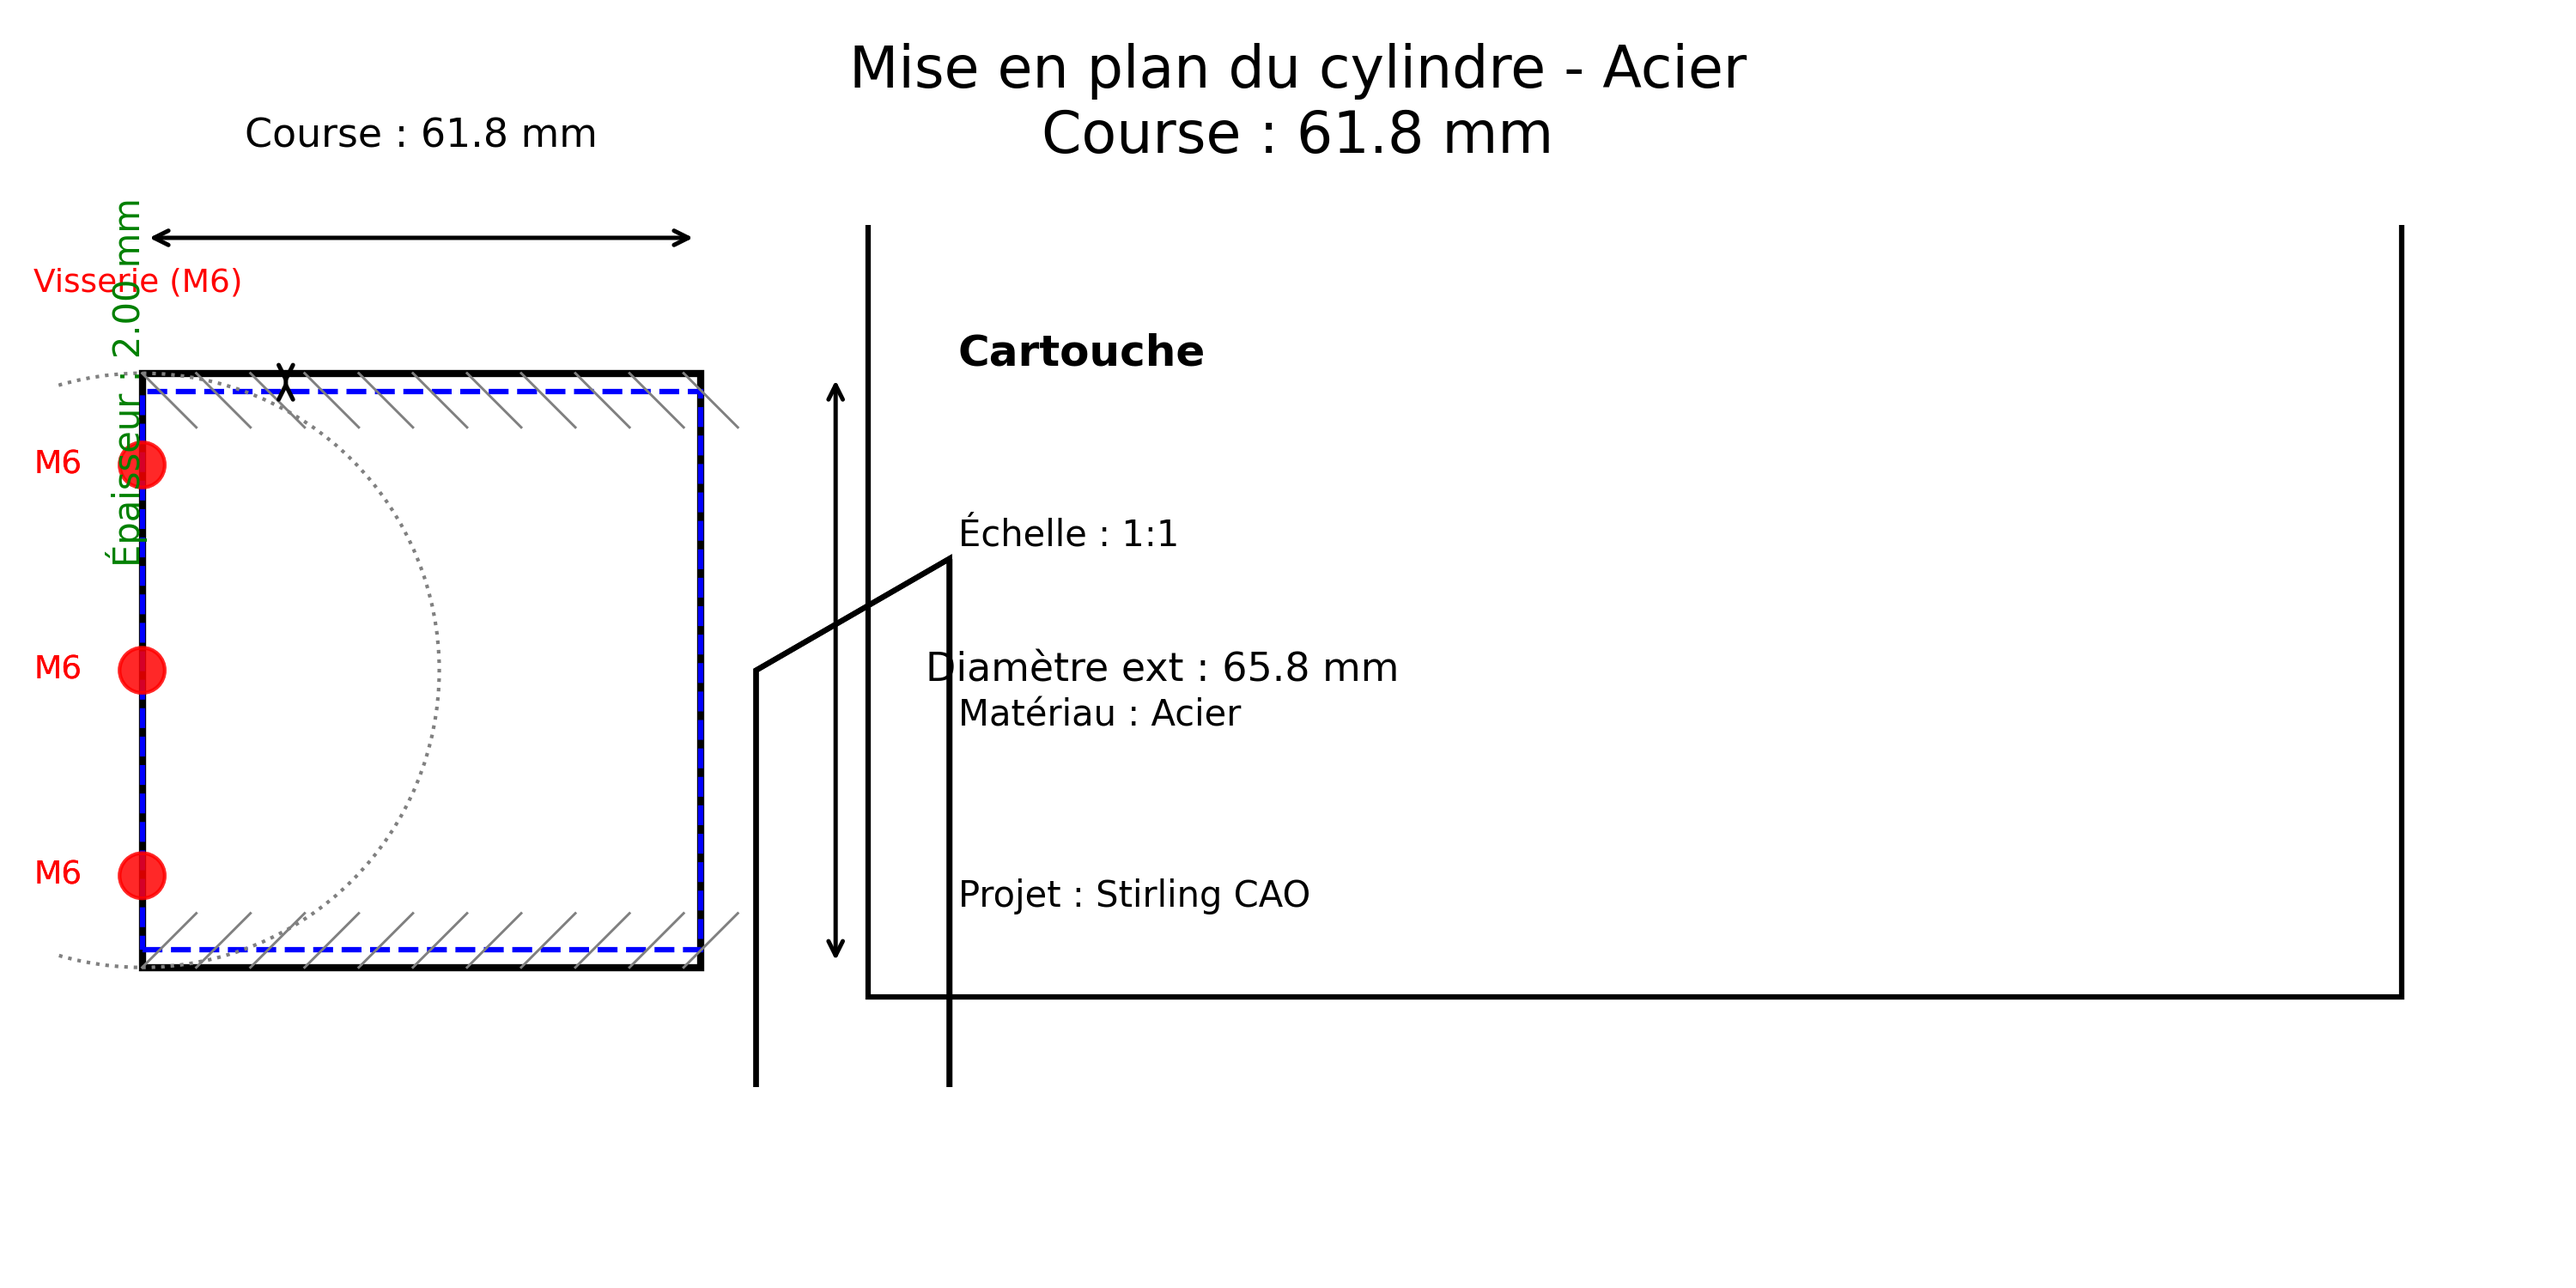
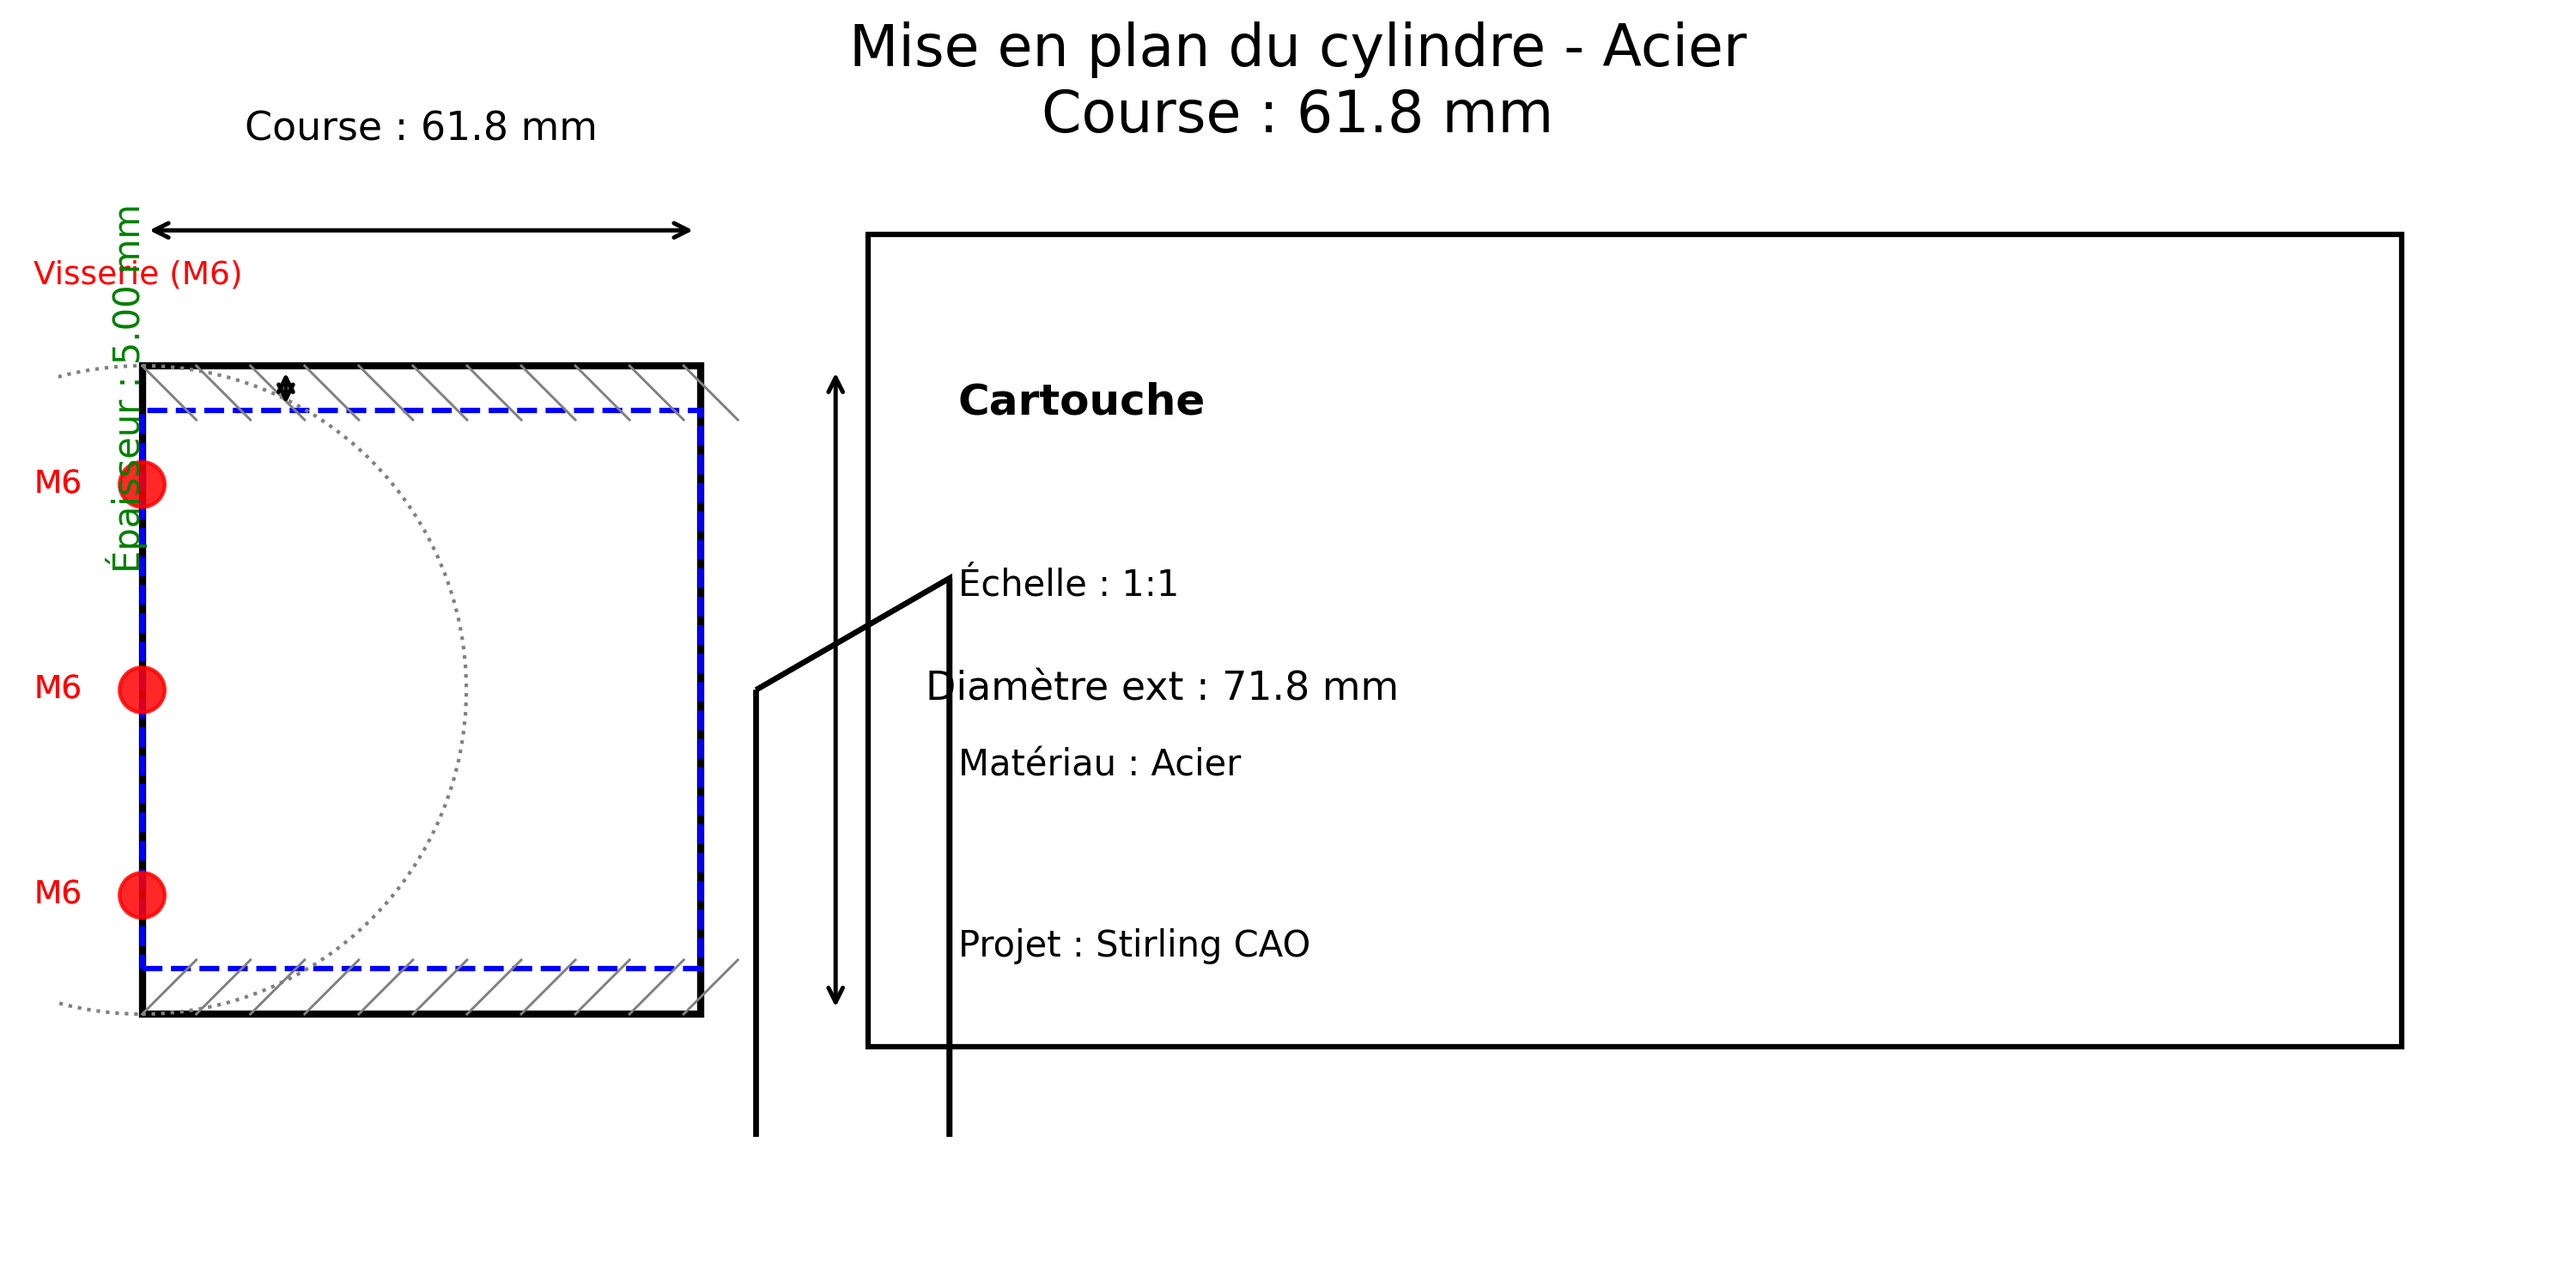
test

diff --git a/pieces/piece_cylindre.py b/pieces/piece_cylindre.py
@@ -25,28 +25,30 @@ class PieceCylindrePage(tk.Frame):
         title.pack(pady=(24, 4))
         tk.Frame(self, height=3, width=260, bg=JV).pack(pady=(0, 22))
 
+        # Création de l'objet cylindre à partir des données tech_sheet
+        self.cylindre = CylindreStirling(
+            diametre_m=tech_sheet['Diametre_m'],
+            course_m=tech_sheet['Course_m'],
+            epaisseur_m=tech_sheet.get('Epaisseur_m', 0.002),  # Prise en compte si fournie sinon 2mm
+            matiere=tech_sheet.get('Matiere', 'Acier'),
+            densite_kg_m3=tech_sheet.get('Densite_kg_m3', 7850),
+            rugosite_um=tech_sheet.get('Rugosite_um', 0.8),
+            etat_surface=tech_sheet.get('Etat_surface', 'Usinage fin'),
+            Th=tech_sheet['Temp_chaud_C'] + 273.15,
+            Tc=tech_sheet['Temp_froid_C'] + 273.15,
+            nb_vis=tech_sheet.get('Nb_vis', 6),
+            dim_vis_iso=tech_sheet.get('Dim_vis_iso', 'M6'),
+            entraxe_vis_pct=tech_sheet.get('Entraxe_vis_pct', 0.85),
+            limite_rupture_MPa=tech_sheet.get('Limite_rupture_MPa', 700)
+        )
+
         # Cadre infos techniques
         info_frame = tk.Frame(self, bg=GW, bd=1, relief="ridge", padx=20, pady=15)
         info_frame.pack(padx=40, pady=10, fill="x")
 
-        # Infos à afficher (ajoute ici plus d'infos si disponibles dans tech_sheet)
-        infos = [
-            ("Diamètre interne (mm)", f"{tech_sheet['Diametre_m']*1000:.2f}"),
-            ("Course (mm)",           f"{tech_sheet['Course_m']*1000:.2f}"),
-            ("Épaisseur (mm)",        "2.00"),  # Adapter si présent dans tech_sheet
-            ("Matière",               "Acier"),
-            ("Densité (kg/m³)",       "7850"),
-            ("Rugosité (µm)",         "0.8"),
-            ("État surface",          "Usinage fin"),
-            ("Température chaude (°C)", f"{tech_sheet['Temp_chaud_C']:.1f}"),
-            ("Température froide (°C)", f"{tech_sheet['Temp_froid_C']:.1f}"),
-            ("Nb vis",                "6"),
-            ("Dimension vis ISO",     "M6"),
-            ("Entraxe vis (%)",       "85"),
-            ("Limite rupture (MPa)",  "700"),
-        ]
-
-        for label, value in infos:
+        # Récupération et affichage dynamique des infos calculées
+        infos_dict = self.cylindre.to_dict()
+        for label, value in infos_dict.items():
             row = tk.Frame(info_frame, bg=GW)
             row.pack(anchor="w", pady=3, fill="x")
             tk.Label(
@@ -54,26 +56,11 @@ class PieceCylindrePage(tk.Frame):
                 bg=GW, fg=BF, anchor="w"
             ).pack(side="left")
             tk.Label(
-                row, text=value, font=("Segoe UI", 13),
+                row, text=str(value), font=("Segoe UI", 13),
                 bg=GW, fg=JV, anchor="w"
             ).pack(side="left")
 
         # Génération du plan du cylindre
-        self.cylindre = CylindreStirling(
-            diametre_m=tech_sheet['Diametre_m'],
-            course_m=tech_sheet['Course_m'],
-            epaisseur_m=0.002,
-            matiere="Acier",
-            densite_kg_m3=7850,
-            rugosite_um=0.8,
-            etat_surface="Usinage fin",
-            Th=tech_sheet['Temp_chaud_C'] + 273.15,
-            Tc=tech_sheet['Temp_froid_C'] + 273.15,
-            nb_vis=6,
-            dim_vis_iso="M6",
-            entraxe_vis_pct=0.85,
-            limite_rupture_MPa=700
-        )
         self.plan_path = "plan_cylindre.png"
         plot_cylindre(self.cylindre, self.plan_path)
 
@@ -111,32 +98,22 @@ class PieceCylindrePage(tk.Frame):
         c.setFont("Helvetica-Bold", 16)
         c.drawString(30, height - 50, "Fiche technique du cylindre")
 
-        # Texte infos techniques
+        # Texte infos techniques dynamiques
         c.setFont("Helvetica", 12)
         y = height - 90
-        infos_text = [
-            f"Diamètre interne (mm) : {self.tech_sheet['Diametre_m']*1000:.2f}",
-            f"Course (mm) : {self.tech_sheet['Course_m']*1000:.2f}",
-            f"Épaisseur (mm) : 2.00",
-            f"Matière : Acier",
-            f"Densité (kg/m³) : 7850",
-            f"Rugosité (µm) : 0.8",
-            f"État surface : Usinage fin",
-            f"Température chaude (°C) : {self.tech_sheet['Temp_chaud_C']:.1f}",
-            f"Température froide (°C) : {self.tech_sheet['Temp_froid_C']:.1f}",
-            f"Nombre de vis : 6",
-            f"Dimension vis ISO : M6",
-            f"Entraxe vis (%) : 85",
-            f"Limite rupture (MPa) : 700",
-        ]
-        for line in infos_text:
+        infos_dict = self.cylindre.to_dict()
+        for label, value in infos_dict.items():
+            line = f"{label} : {value}"
             c.drawString(30, y, line)
-            y -= 20
+            y -= 18
+            if y < 100:  # si trop bas, nouvelle page
+                c.showPage()
+                y = height - 50
+                c.setFont("Helvetica", 12)
 
         # Insérer l'image du plan
         if os.path.exists(self.plan_path):
             c.drawImage(self.plan_path, 30, y - 300, width=550, height=250, preserveAspectRatio=True)
-            y -= 320
 
         c.save()
         print(f"PDF généré : {pdf_path}")

diff --git a/calculs/cylindre.py b/calculs/cylindre.py
@@ -34,7 +34,7 @@ class CylindreStirling:
         entraxe_vis_pct,
         limite_rupture_MPa
     ):
-        # Contrôles stricts : aucune valeur par défaut, tout doit être explicitement renseigné
+        # Contrôles stricts : aucune valeur par défaut, tout doit être explicitement renseigné
         if any(x is None for x in [
             diametre_m, course_m, epaisseur_m, matiere, densite_kg_m3, rugosite_um,
             etat_surface, Tc, Th, nb_vis, dim_vis_iso, entraxe_vis_pct, limite_rupture_MPa
@@ -43,6 +43,16 @@ class CylindreStirling:
 
         if diametre_m <= 0 or course_m <= 0 or epaisseur_m <= 0:
             raise ValueError("Diamètre, course et épaisseur doivent être strictement positifs.")
+
+        # Récupération diamètre perçage vis en mm
+        diam_percage_mm = self.DIAM_PERCAGE_TARAUD_ISO.get(dim_vis_iso, 5.0)
+
+        # Vérification que l’épaisseur est au moins égale au diamètre perçage vis (en m)
+        epaisseur_min = diam_percage_mm / 1000.0  # Converti en mètres
+        if epaisseur_m < epaisseur_min:
+            print(f"Attention : épaisseur de paroi {epaisseur_m*1000:.1f} mm trop faible pour vis {dim_vis_iso} "
+                  f"(minimum requis {epaisseur_min*1000:.1f} mm). Ajustement automatique.")
+            epaisseur_m = epaisseur_min
 
         self.diametre = diametre_m
         self.course = course_m
@@ -56,7 +66,7 @@ class CylindreStirling:
         # Visserie
         self.nb_vis = nb_vis
         self.dim_vis_iso = dim_vis_iso
-        self.diam_percage_vis = self.DIAM_PERCAGE_TARAUD_ISO.get(dim_vis_iso, 5.0) / 1000.0  # m
+        self.diam_percage_vis = diam_percage_mm / 1000.0  # m
         self.diam_taraudage_nominal = int(dim_vis_iso[1:]) / 1000.0 if dim_vis_iso.startswith("M") else 0.006
         self.entraxe_vis = (self.diametre / 2) * entraxe_vis_pct
         self.entraxe_vis_pct = entraxe_vis_pct
@@ -196,13 +206,14 @@ class CylindreStirling:
             f"{self.matiere}, Ra={self.rugosite} µm, {self.etat_surface})"
         )
 
+
 # Exemple d’utilisation (tous les paramètres doivent venir d’un calcul préalable, aucune valeur par défaut)
 if __name__ == "__main__":
     # Tous les paramètres doivent être passés explicitement !
     cyl = CylindreStirling(
         diametre_m=0.022,
         course_m=0.018,
-        epaisseur_m=0.002,
+        epaisseur_m=0.005,  # corrigé pour être compatible M6
         matiere="Acier inox 316L",
         densite_kg_m3=8000,
         rugosite_um=0.4,
